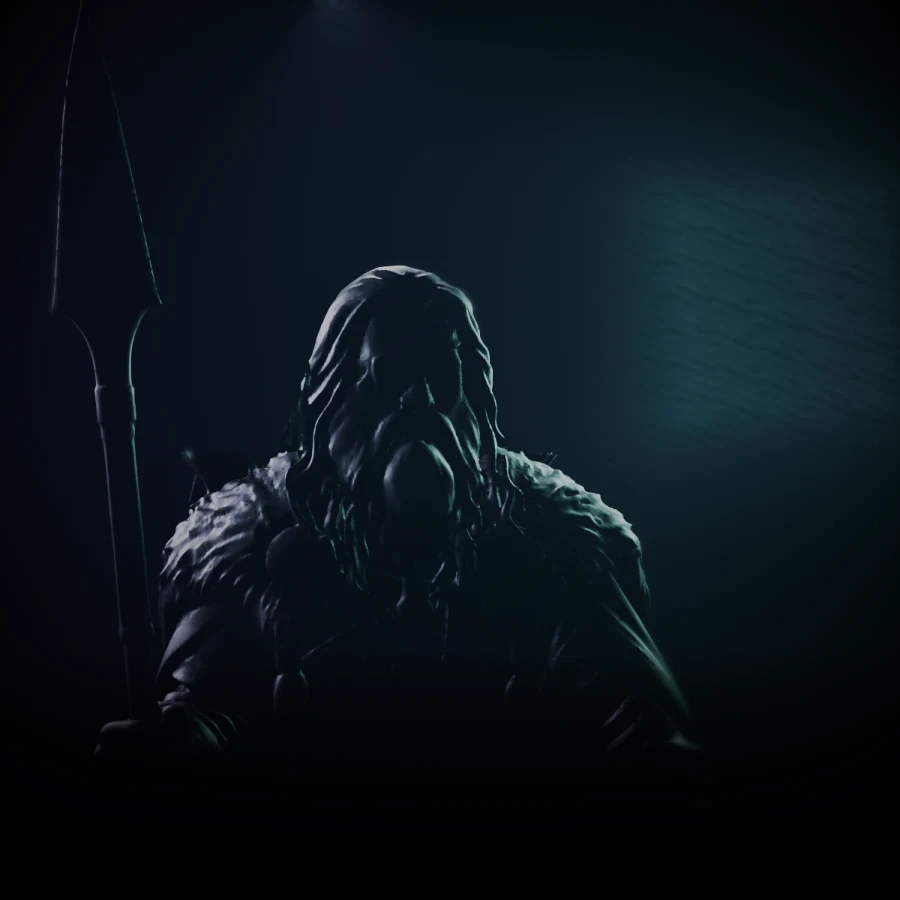
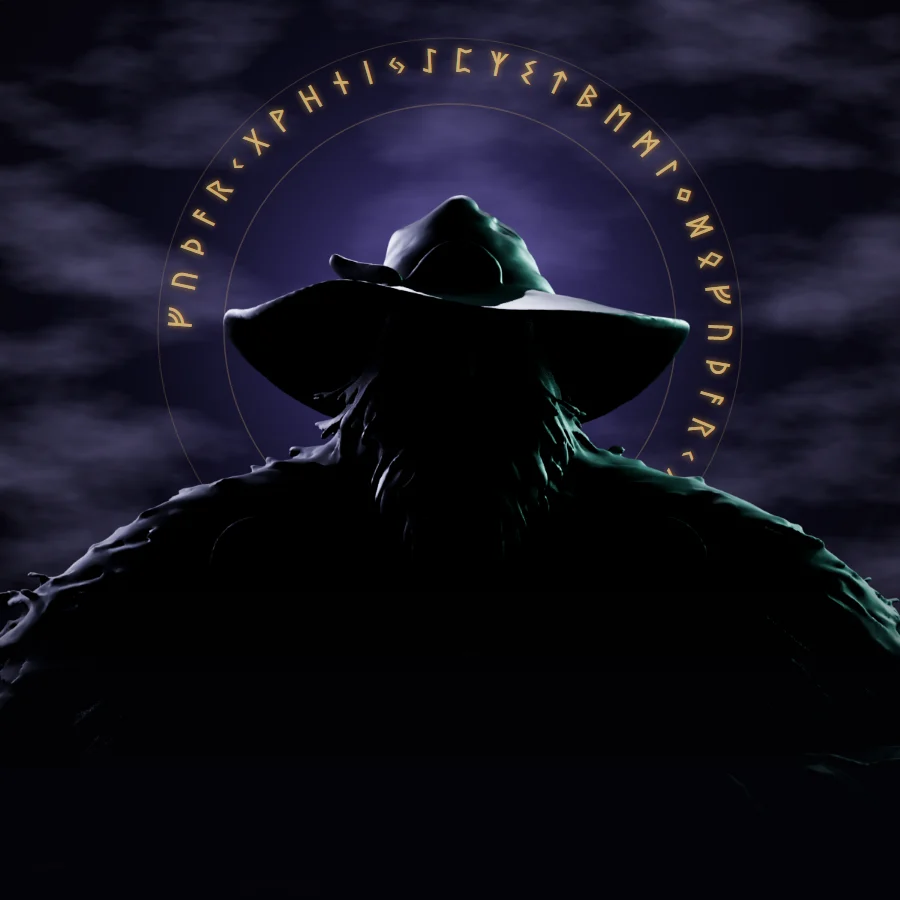
Blackwing v7: Odin from own concept model, whole ravens on shoulders, calmer well

diff --git a/blackwing/index.html b/blackwing/index.html
@@ -18,7 +18,7 @@
 <link rel="preconnect" href="https://cdn.jsdelivr.net" crossorigin>
 <link href="https://fonts.googleapis.com/css2?family=Cinzel:wght@500;700;900&family=Cormorant+Garamond:ital,wght@1,500;1,600&family=Inter:wght@400;500;600&family=JetBrains+Mono:wght@400;500&family=Noto+Sans+Runic&display=swap" rel="stylesheet">
 <link rel="modulepreload" href="blackwing/raven3d.js?v=12">
-<link rel="stylesheet" href="blackwing/blackwing.css?v=8">
+<link rel="stylesheet" href="blackwing/blackwing.css?v=10">
 </head>
 <body>
 <a class="skip" href="#thought">Skip to the work</a>
@@ -169,12 +169,12 @@
       <div><p class="mono kicker-line" data-runes>Hliðskjálf · dusk</p><h2 data-runes>The ravens return</h2></div>
     </header>
     <div class="dusk-grid">
-      <figure class="odin" aria-label="Odin, the All-Father: a dark figure in a fur mantle, Gungnir in hand, lit only at the edges. His two ravens land on his shoulders, and only his one eye lights.">
-        <img class="odin-sil" src="blackwing/odin.webp?v=2" alt="" width="900" height="900" loading="lazy" decoding="async">
-        <img class="raven-perch" data-at=".285,.448" src="blackwing/ravenL.webp?v=2" alt="" width="900" height="900" loading="lazy" decoding="async">
-        <img class="raven-perch" data-at=".599,.425" src="blackwing/ravenR.webp?v=2" alt="" width="900" height="900" loading="lazy" decoding="async">
-        <i class="glint rv" style="left:36.19%;top:38.88%"></i><i class="glint rv" style="left:55.47%;top:36.83%"></i>
-        <i class="glint odin-eye" style="left:50.43%;top:39.3%"></i>
+      <figure class="odin" aria-label="Odin, the All-Father: the Wanderer in a wide hat and fur mantle, a dark figure under a ring of runes. His two ravens land on his shoulders, and only his one eye lights.">
+        <img class="odin-sil" src="blackwing/odin.webp?v=4" alt="" width="900" height="900" loading="lazy" decoding="async">
+        <img class="raven-perch" data-at=".17,.565" style="left:3.78%;top:39.44%" src="blackwing/ravenL.webp?v=3" alt="" width="360" height="360" loading="lazy" decoding="async">
+        <img class="raven-perch" data-at=".83,.565" style="left:74.22%;top:39.44%" src="blackwing/ravenR.webp?v=3" alt="" width="360" height="360" loading="lazy" decoding="async">
+        <i class="glint rv" style="left:22.37%;top:45.32%"></i><i class="glint rv" style="left:77.56%;top:45.37%"></i>
+        <i class="glint odin-eye" style="left:55.58%;top:36.02%"></i>
         <figcaption class="odin-cap mono">The All-Father · one eye given to Mímir, one that sees everything</figcaption>
       </figure>
       <div class="contact-copy">
@@ -208,7 +208,7 @@
   <span class="sig"><b>ᛒᛚᚨᚲᚴᚹᛁᛜ</b> © 2026 Mazen Ashraf Refaat</span>
   <span class="motto">“For Hugin I fear lest he come not home, but for Munin my care is more.” <small>Odin, Grímnismál</small></span>
   <a href="blackwing/#top">Return to Hliðskjálf ↑</a>
-  <p class="credits">3D models: <a href="https://sketchfab.com/3d-models/crow-fly-f47a1a1729544846a2bce22cc6adb500" target="_blank" rel="noopener">Crow Fly</a> by LostBoyz2078 (CC BY-NC 4.0, flight frames rendered from it) · <a href="https://sketchfab.com/3d-models/odin-alfor-a0a9e5b682004ee38c86870c5ee0c060" target="_blank" rel="noopener">ODIN Alföðr</a> by Tom Holbein / VDCnordic (CC BY 4.0) · <a href="https://sketchfab.com/3d-models/common-raven-ec9c0ac738fd4495af334ea2092e8d89" target="_blank" rel="noopener">Common raven</a> by Virtual Museums of Małopolska (CC0). Odin is a silhouette rendered from his model. Modified for this site.</p>
+  <p class="credits">3D models: <a href="https://sketchfab.com/3d-models/crow-fly-f47a1a1729544846a2bce22cc6adb500" target="_blank" rel="noopener">Crow Fly</a> by LostBoyz2078 (CC BY-NC 4.0, flight frames rendered from it) · <a href="https://sketchfab.com/3d-models/common-raven-ec9c0ac738fd4495af334ea2092e8d89" target="_blank" rel="noopener">Common raven</a> by Virtual Museums of Małopolska (CC0). Odin is rendered from a model generated from the site owner's own concept art. Modified for this site.</p>
 </footer>
 
 <div id="modal" class="modal" hidden role="dialog" aria-modal="true" aria-labelledby="modal-title">
@@ -220,7 +220,7 @@
 
 <script type="importmap">{ "imports": { "three": "https://cdn.jsdelivr.net/npm/three@0.160.0/build/three.module.min.js", "three/addons/": "https://cdn.jsdelivr.net/npm/three@0.160.0/examples/jsm/" } }</script>
 <script type="module" async src="blackwing/raven3d.js?v=12"></script>
-<script type="module" async src="blackwing/well3d.js?v=3"></script>
+<script type="module" async src="blackwing/well3d.js?v=4"></script>
 <script src="https://cdnjs.cloudflare.com/ajax/libs/gsap/3.12.5/gsap.min.js" defer></script>
 <script src="https://cdnjs.cloudflare.com/ajax/libs/gsap/3.12.5/ScrollTrigger.min.js" defer></script>
 <script src="https://cdnjs.cloudflare.com/ajax/libs/gsap/3.12.5/MotionPathPlugin.min.js" defer></script>

diff --git a/blackwing/well3d.js b/blackwing/well3d.js
@@ -126,10 +126,10 @@ async function build() {
     vertexShader: "varying vec3 vPos; void main(){ vec4 w = modelMatrix * vec4(position,1.); vPos = w.xyz; gl_Position = projectionMatrix * viewMatrix * w; }",
     fragmentShader: `uniform sampler2D tScene; uniform vec2 res; uniform float time; uniform vec4 rip[8]; varying vec3 vPos;
       void main(){
-        vec2 p = vPos.xz, g = vec2(cos(p.x*5.+time*1.1)+cos(p.x*9.-p.y*4.+time*.7), cos(p.y*6.-time*.9)+cos(p.y*11.+p.x*3.+time*1.3))*.0035;
+        vec2 p = vPos.xz, g = vec2(cos(p.x*5.+time*1.1)+cos(p.x*9.-p.y*4.+time*.7), cos(p.y*6.-time*.9)+cos(p.y*11.+p.x*3.+time*1.3))*.0013;
         for (int i = 0; i < 8; i++) { vec4 r = rip[i]; if (r.w <= 0.) continue; vec2 d = p - r.xy; float dist = length(d) + 1e-4, age = r.z;
-          float k = exp(-pow((dist - age*.6)*6., 2.)) * exp(-age*1.15) * r.w; g += d/dist * cos(dist*36. - age*12.) * k * .05; }
-        vec3 col = texture2D(tScene, gl_FragCoord.xy/res + g*1.1).rgb;
+          float k = exp(-pow((dist - age*.6)*6., 2.)) * exp(-age*1.7) * r.w; g += d/dist * cos(dist*30. - age*10.) * k * .018; }
+        vec3 col = texture2D(tScene, gl_FragCoord.xy/res + g*.9).rgb;
         vec3 n = normalize(vec3(-g.x*9., 1., -g.y*9.)), V = normalize(cameraPosition - vPos);
         float fres = pow(1. - max(dot(n, V), 0.), 3.);
         col = mix(col * vec3(.8, .88, 1.), vec3(.05, .06, .11), fres * .55);
@@ -152,8 +152,8 @@ async function build() {
   let lastRip = 0, pointerAt = 0;
   const hit = e => { const r = canvas.getBoundingClientRect(); ndc.set(((e.clientX - r.left) / r.width) * 2 - 1, -((e.clientY - r.top) / r.height) * 2 + 1); ray.setFromCamera(ndc, cam); return ray.intersectObject(water)[0]; };
   canvas.addEventListener("pointermove", e => { const h = hit(e); if (!h) return; pointerAt = performance.now(); lookTo.set(h.point.x, h.point.z);
-    if (pointerAt - lastRip > 130) { lastRip = pointerAt; ripple(h.point.x, h.point.z, .8); } });
-  canvas.addEventListener("pointerdown", e => { const h = hit(e); if (h) ripple(h.point.x, h.point.z, 1.4); });
+    if (pointerAt - lastRip > 240) { lastRip = pointerAt; ripple(h.point.x, h.point.z, .45); } });
+  canvas.addEventListener("pointerdown", e => { const h = hit(e); if (h) ripple(h.point.x, h.point.z, .9); });
 
   let visible = false;
   new IntersectionObserver(([e]) => { visible = e.isIntersecting; }, { rootMargin: "60px 0px" }).observe(host);
@@ -180,7 +180,7 @@ async function build() {
     for (let i = 0; i < motePos.count; i++) { let y = motePos.getY(i) + dt * .12; if (y > 1.3) y = 0; motePos.setY(i, y); }
     for (let i = 0; i < deepPos.count; i++) { let y = deepPos.getY(i) + dt * .05; if (y > -.05) y = -.55; deepPos.setY(i, y); }
     motePos.needsUpdate = deepPos.needsUpdate = true;
-    if (t > nextDrip && !reduce) { const a = rnd(0, 6.28), k = Math.sqrt(Math.random()) * .7; ripple(Math.cos(a) * k, Math.sin(a) * k, .7); nextDrip = t + rnd(2.2, 4.5); }
+    if (t > nextDrip && !reduce) { const a = rnd(0, 6.28), k = Math.sqrt(Math.random()) * .7; ripple(Math.cos(a) * k, Math.sin(a) * k, .7); nextDrip = t + rnd(4, 8); }
     water.material.uniforms.time.value = t;
     for (const r of ripples) if (r.w > 0) { r.z += dt; if (r.z > 4) r.w = 0; }
     renderer.setRenderTarget(rt); renderer.render(deep, cam); renderer.setRenderTarget(null); renderer.render(scene, cam);

diff --git a/blackwing/blackwing.css b/blackwing/blackwing.css
@@ -350,3 +350,10 @@ html.no-webgl #well { display: block; } html.no-webgl .well-3d { display: none; 
 #well { display: none !important; }
 html.no-well3d .well-3d { display: none !important; } html.no-well3d #well { display: block !important; }
 @media (max-width: 680px) { .well-3d { height: 300px; } }
+
+/* ---------- v7: hand-drawn Odin the Wanderer; ravens stand whole on his shoulders ---------- */
+.odin img.raven-perch { inset: auto; width: 22%; height: auto; z-index: 2; filter: drop-shadow(0 4px 6px #000a); }
+.odin .glint { z-index: 3; }
+
+/* v8: the eye is an almond of gold the exact width of the model's eye (3.6% of the frame) */
+.odin .odin-eye { width: 3.6%; aspect-ratio: 2.4; margin: 0; transform: translate(-50%, -50%); border-radius: 50%; background: radial-gradient(closest-side, #fff4cf, #ffc45e 45%, #e3892a 75%, transparent); box-shadow: 0 0 10px 2px #ffb84d, 0 0 34px 8px #e3a83c88, 0 0 80px 22px #c9a45c33; }

diff --git a/blackwing/README.md b/blackwing/README.md
@@ -38,3 +38,10 @@ Only the two hero ravens are still real-time 3D. Everything else is 2D, which is
 - **Odin** is now the full 1.4M-triangle "ODIN Alföðr" sculpt (Tom Holbein / VDCnordic, CC BY 4.0), rendered once in Blender as a figure in near-total darkness: a near-black material, thin volumetric fog, a backlight and violet/teal rim lights that pick out the hood, the braids, the fur mantle and Gungnir. The halo, the sculpted ravens and everything below the waist were cut away. The image fades to black at the edges (`odin.webp`, 21 KB). The rigged ravens are rendered into their own transparent layers in the same light (`ravenL.webp`, `ravenR.webp`). Only his left eye and the ravens' eyes glow, at positions projected from the 3D scene.
 - **Mímir's Well** is real-time 3D again (`well3d.js`), but no longer a human eye: a dry-stone well of three offset courses of rough-hewn blocks, with runes carved on the inner face of the top course that kindle in turn. The roots of Yggdrasil arch over the wall and plunge into the water. Under the water lies Odin's eye as a sigil of light: a gold iris of painted fibres inside two rune rings turning against each other, framed by a vesica of light, with a dark pupil that follows your cursor and a lid of light that blinks. The water is a shader that refracts the deep through the ripples you make (move or click). Mist drifts over it and gold motes rise. Everything is built in code; it builds only near the section and renders only while visible, at most 30 fps. If WebGL fails, the 2D canvas well comes back.
 - The render scripts and sources are in `D:\Crow\` (`odin2_*.png`).
+
+## v7: Odin from Mazen's own concept art; ravens stand whole on his shoulders; a calmer well
+- **Odin** comes from Mazen's own generated concept art (the Wanderer in a wide hat, fur mantle, ravens and a rune ring) and the low-poly model generated from it. In Blender the model's two built-in ravens (separate mesh islands) were deleted, leaving 320k triangles. The texture was darkened to a near-black ghost of itself, the camera was framed on the upper body, and he is lit only by violet and teal rims. The render sits over a violet sky with a gold Elder Futhark ring behind his head (`odin.webp`, 31 KB). The previous statue model is no longer used.
+- **His eye**: the glowing texels of the model's own texture locate his left eye exactly (centre 55.6% / 36.0% of the frame, 3.6% of the frame wide). The CSS glow is a gold almond of that size at that point. It wakes when the ravens land and flares while you type.
+- **The ravens** are rendered on their own in profile from the rigged raven, whole body (a scanned twig under the toes was cut away). They sit in front of him, so nothing covers them, and land on his shoulder tops (`ravenL.webp`, `ravenR.webp`).
+- **The well's water** is calmer: smaller, quicker-fading ripples and fewer drips, so the eye stays readable while you play with the surface.
+- Sources are in `D:\Crow\`: `tripo_odin_clean.blend`, `todin_*.png` and `perch_*.png`.
